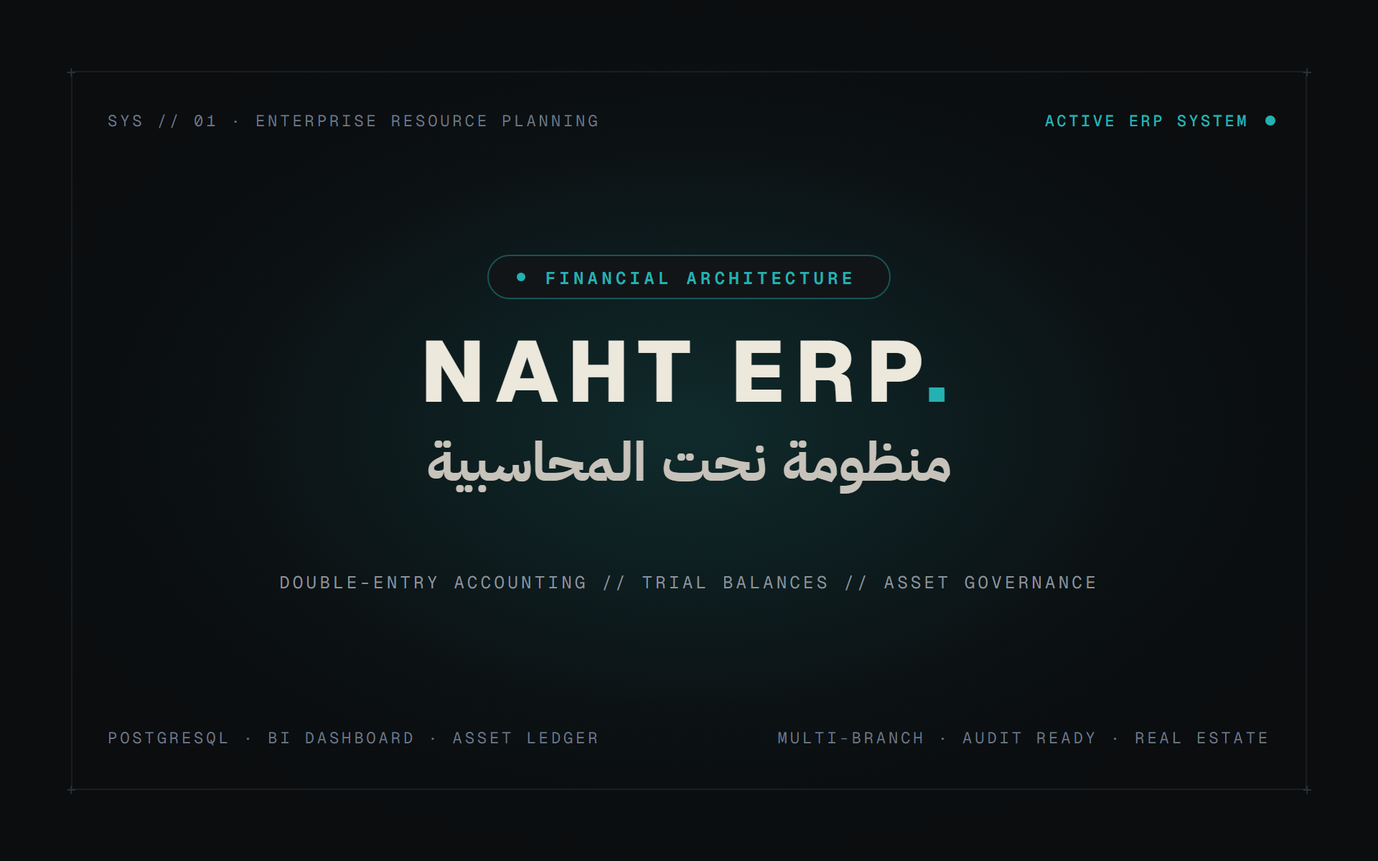
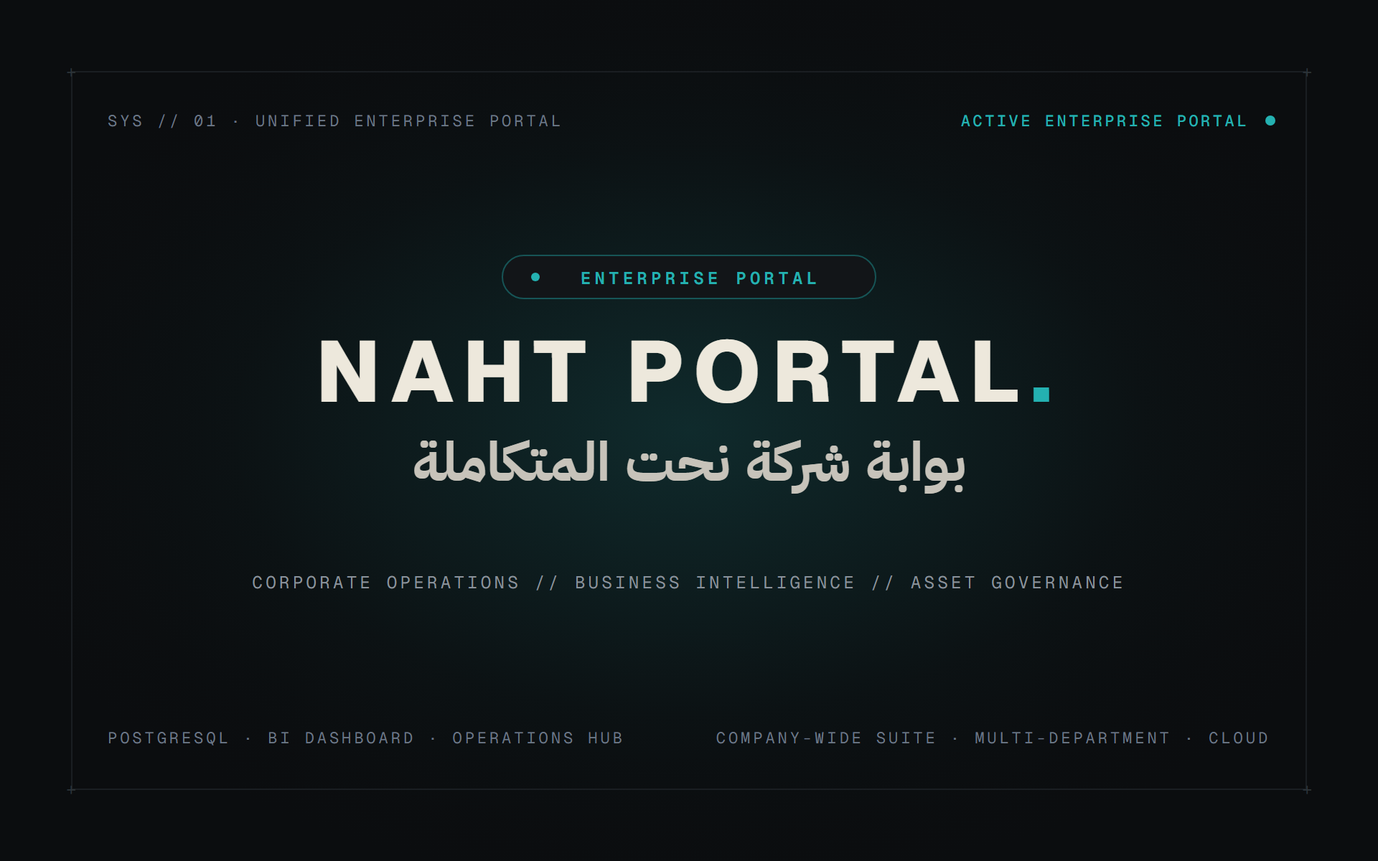
fix(projects): rebrand Naht system from accounting to unified company enterprise portal across cards and case studies

diff --git a/projects/naht-erp.html b/projects/naht-erp.html
@@ -3,17 +3,17 @@
 <head>
     <meta charset="UTF-8">
     <meta name="viewport" content="width=device-width, initial-scale=1.0">
-    <title>منظومة نحت العقارية المتكاملة (ERP) · Rayyan Aldohian</title>
-    <meta name="description" content="دراسة حالة لمنظومة نحت العقارية المتكاملة (Naht Enterprise ERP & Operations Engine) — هندسة العمليات، القيود المالية، وإدارة الأصول العقارية.">
+    <title>بوابة شركة نحت المتكاملة (Enterprise Portal) · Rayyan Aldohian</title>
+    <meta name="description" content="دراسة حالة لبوابة شركة نحت المتكاملة (Naht Enterprise Portal) — البوابة الرقمية المركزية لإدارة كافة عمليات وقطاعات الشركة، ذكاء الأعمال، وحوكمة الأصول والمشاريع.">
     <meta name="author" content="Rayyan Aldohian">
     <meta name="theme-color" content="#0b0d0f">
     <meta name="color-scheme" content="dark">
 
     <!-- Open Graph -->
     <meta property="og:type" content="article">
-    <meta property="og:title" content="منظومة نحت العقارية المتكاملة (ERP) · Rayyan Aldohian">
-    <meta property="og:description" content="منظومة متكاملة لإدارة العمليات التشغيلية، والقيود المالية، والأصول العقارية، والكوادر البشرية.">
-    <meta property="og:image" content="../assets/naht-erp-logo.png">
+    <meta property="og:title" content="بوابة شركة نحت المتكاملة (Enterprise Portal) · Rayyan Aldohian">
+    <meta property="og:description" content="البوابة الرقمية المركزية لإدارة العمليات التشغيلية، ذكاء الأعمال، الأصول العقارية، والكوادر البشرية لكافة قطاعات الشركة.">
+    <meta property="og:image" content="../assets/p11-naht-erp.png">
 
     <!-- Stylesheets & Icons -->
     <link rel="stylesheet" href="../style.css">
@@ -130,20 +130,20 @@
                 <div class="case-study-meta-row">
                     <span class="year">2026</span>
                     <span class="divider" aria-hidden="true"></span>
-                    <span class="tagline" data-i18n="cs_erp_tagline">منظومة تخطيط الموارد وإدارة العمليات المؤسسية</span>
+                    <span class="tagline" data-i18n="cs_erp_tagline">بوابة رقمية موحدة للشركة: العمليات، ذكاء الأعمال، وحوكمة المشاريع</span>
                     <span class="divider" aria-hidden="true"></span>
                     <span class="status-badge">
                         <span class="pulsing-dot"></span>
-                        <span data-i18n="cs_erp_status">نظام مؤسسي نشط</span>
+                        <span data-i18n="cs_erp_status">بوابة مؤسسية نشطة</span>
                     </span>
                 </div>
 
                 <!-- Headline -->
-                <h1 class="case-study-title font-display" data-i18n="cs_erp_title">منظومة نحت العقارية المتكاملة (ERP)</h1>
+                <h1 class="case-study-title font-display" data-i18n="cs_erp_title">بوابة شركة نحت المتكاملة</h1>
 
                 <!-- Lead Paragraph -->
                 <p class="case-study-lead" data-i18n="cs_erp_lead">
-                    منصة رقمية مؤسسية تجمع بين ذكاء الأعمال (BI) والإدارة المالية المتقدمة، وإدارة الكوادر والمشاريع العقارية في بيئة تشغيلية موحدة ومؤمنة بالكامل تدعم التوسع والنمو.
+                    بوابة رقمية مؤسسية موحدة لكافة قطاعات وأقسام الشركة، تجمع بين إدارة العمليات التشغيلية، ذكاء الأعمال (BI)، إدارة المشاريع والكوادر، والربط المالي الشامل في بيئة سحابية مركزية ومؤتمتة بالكامل.
                 </p>
 
                 <!-- Actions & Links (Row 1) -->
@@ -191,7 +191,7 @@
                         <div class="cs-section">
                             <h3 class="cs-section-title" data-i18n="cs_erp_h1">01. سياق التحدي ونقاط الاختناق التشغيلي</h3>
                             <p data-i18n="cs_erp_p1">
-                                مع تسارع أعمال التطوير والبيع على الخارطة في شركة <strong>نحت العقارية</strong> عبر مشاريع حيوية في الرياض (نحت 13، 14، 18، 19، 20، 21، 22، 23)، واجهت الإدارة اختناقات ناتجة عن تشتت الأنظمة: برامج محاسبية منفصلة لا تتواصل مع سجلات البيع، جداول يدوية لحجوزات الوحدات تتسبب في مخاطر التضارب والازدواجية، وغياب الرؤية الموحدة لتدفق السيولة وتكاليف المقاولين. <em>كان الهدف بناء منظومة مركزية واحدة تدير الأصول المالية والتشغيلية من حجز الوحدة حتى الإغلاق المحاسبي النهائي.</em>
+                                مع تسارع أعمال التطوير والبيع على الخارطة في شركة <strong>نحت العقارية</strong> عبر مشاريع حيوية في الرياض (نحت 13، 14، 18، 19، 20، 21، 22، 23)، واجهت الإدارة اختناقات ناتجة عن تشتت الأنظمة: برامج متعددة متفرقة لا تتواصل مع بعضها، جداول يدوية لحجوزات الوحدات وإدارة الكوادر تتسبب في التضارب والازدواجية، وغياب البوابة الموحدة التي تمنح الإدارة التنفيذية رؤية شاملة وفورية لكافة قطاعات الشركة. <em>كان الهدف بناء بوابة رقمية موحدة وشاملة للشركة ككل، تدير الأصول والعمليات التشغيلية، الكوادر، المشاريع، والتقارير المالية في منصة واحدة.</em>
                             </p>
                         </div>
 
@@ -199,7 +199,7 @@
                         <div class="cs-section">
                             <h3 class="cs-section-title" data-i18n="cs_erp_h2">02. المعمارية التقنية والحل الهندسي</h3>
                             <p data-i18n="cs_erp_p2">
-                                تم تصميم المنظومة بنمط المعمارية الأحادية المعيارية <em>Modular Monolith</em> بالاعتماد على <code>Next.js 15</code> و <code>TypeScript</code> مع قاعدة بيانات علائقية <code>PostgreSQL</code> عبر <code>Prisma ORM</code>. طُبقت معايير المحاسبة المزدوجة <em>Double-Entry General Ledger</em> المؤتمتة وموازين المراجعة <em>D4 Trial Balance</em>، مع بناء سجل تدقيق مالي غير قابل للمسح أو التعديل <em>Append-Only Audit Log</em> يوثق كل قيد وتعديل بدقة جنائية تلبي أعلى متطلبات الامتثال المالي.
+                                تم تصميم البوابة المؤسسية بنمط المعمارية الأحادية المعيارية <em>Modular Monolith</em> بالاعتماد على <code>Next.js 15</code> و <code>TypeScript</code> مع قاعدة بيانات علائقية <code>PostgreSQL</code> عبر <code>Prisma ORM</code>. جُمعت كافة وظائف الشركة في بوابة مركزية تضم محرك العمليات المؤسسية، لوحات ذكاء الأعمال (BI)، القيود التشغيلية والمالية المؤتمتة، مع بناء سجل تدقيق غير قابل للمسح أو التعديل <em>Append-Only Audit Log</em> يوثق كل إجراء بدقة متناهية تلبي أعلى متطلبات الحوكمة المؤسسية.
                             </p>
                         </div>
 
@@ -207,24 +207,24 @@
                         <div class="cs-section">
                             <h3 class="cs-section-title" data-i18n="cs_erp_h3">03. استراتيجية التنفيذ والتكامل التشغيلي</h3>
                             <p data-i18n="cs_erp_p3">
-                                قُسمت المنظومة إلى وحدات وظيفية مترابطة: محرك إدارة المخزون العقاري الذي يتيح تتبع نسب الإنجاز، النماذج المعمارية، الأسعار الديناميكية، وإصدار عقود الحجز إلكترونياً، بالتكامل مع بوابة خدمة ذاتية للموارد البشرية لإدارة الإجازات والتكليفات وفق مصفوفة صلاحيات مشددة <em>Role-Based Access Control (RBAC)</em>، وبيئة اختبار معزولة <em>Isolated Sandbox Lab</em> لمعاينة القيود قبل ترحيلها.
+                                قُسمت المنظومة إلى وحدات وظيفية مترابطة: محرك إدارة المخزون العقاري الذي يتيح تتبع نسب الإنجاز، النماذج المعمارية، الأسعار الديناميكية، وإصدار عقود الحجز إلكترونياً، بالتكامل مع بوابة خدمة ذاتية للموارد البشرية لإدارة الإجازات والتكليفات وفق مصفوفة صلاحيات مشددة <em>Role-Based Access Control (RBAC)</em>، وبيئة اختبار معزولة <em>Isolated Sandbox Lab</em> لمعاينة العمليات قبل اعتمادها.
                             </p>
                         </div>
 
                         <!-- Section 4 -->
                         <div class="cs-section">
-                            <h3 class="cs-section-title" data-i18n="cs_erp_h4">04. الأثر المالي والنتائج الرقمية المحققة</h3>
+                            <h3 class="cs-section-title" data-i18n="cs_erp_h4">04. الأثر المؤسسي والنتائج الرقمية المحققة</h3>
                             <p data-i18n="cs_erp_p4">
-                                أحدثت المنظومة تحولاً جذرياً في كفاءة الفريق الإداري والمالي، حيث ألغت تماماً الاعتماد على الجداول المتفرقة، وحولت الاجتماعات الدورية من التخمين إلى اتخاذ قرارات تستند إلى لوحات ذكاء أعمال لحظية <em>BI Telemetry</em> تكشف هوامش الربحية وتدفقات السيولة.
+                                أحدثت البوابة تحولاً جذرياً في كفاءة كافة أقسام وإدارات الشركة، حيث ألغت تماماً الاعتماد على الملفات المتفرقة، وحولت الاجتماعات الدورية من التخمين إلى اتخاذ قرارات تستند إلى لوحات ذكاء أعمال لحظية <em>BI Telemetry</em> تكشف مؤشرات الأداء، التدفقات، وسير العمليات.
                             </p>
                             <div class="cs-metric-grid">
                                 <div class="cs-metric-card">
-                                    <span class="cs-metric-val" data-i18n="cs_erp_m1_val">-65%</span>
-                                    <span class="cs-metric-lbl" data-i18n="cs_erp_m1_lbl">تسريع الإغلاق المالي والقيود المحاسبية</span>
+                                    <span class="cs-metric-val" data-i18n="cs_erp_m1_val">100%</span>
+                                    <span class="cs-metric-lbl" data-i18n="cs_erp_m1_lbl">تكامل قطاعات وعمليات الشركة في بوابة موحدة</span>
                                 </div>
                                 <div class="cs-metric-card">
-                                    <span class="cs-metric-val" data-i18n="cs_erp_m2_val">100%</span>
-                                    <span class="cs-metric-lbl" data-i18n="cs_erp_m2_lbl">جاهزية تدقيق القيود وسجل العمليات</span>
+                                    <span class="cs-metric-val" data-i18n="cs_erp_m2_val">-65%</span>
+                                    <span class="cs-metric-lbl" data-i18n="cs_erp_m2_lbl">تسريع الإجراءات الإدارية والتشغيلية</span>
                                 </div>
                                 <div class="cs-metric-card">
                                     <span class="cs-metric-val" data-i18n="cs_erp_m3_val">0%</span>
@@ -237,7 +237,7 @@
                         <div class="cs-section">
                             <h3 class="cs-section-title" data-i18n="cs_erp_h5">05. آفاق التوسع والدروس المستفادة</h3>
                             <p data-i18n="cs_erp_p5">
-                                أثبتت التجربة أن بناء نواة تقنية مخصصة للاحتياج الفعلي يتفوق بمراحل على الأنظمة الجاهزة باهظة التكلفة والصلبة. تشمل خارطة التوسع دمج نماذج تنبؤية للسيولة النقدية قائمة على الذكاء الاصطناعي، وربط تلقائي مع منصات التمويل العقاري والوسطاء المعتمدين.
+                                أثبتت التجربة أن بناء بوابة رقمية مخصصة للاحتياج المؤسسي الفعلي يتفوق بمراحل على الحلول الجاهزة باهظة التكلفة والصلبة. تشمل خارطة التوسع دمج نماذج تنبؤية مدعومة بالذكاء الاصطناعي، وربط تلقائي مع منصات التمويل العقاري والوسطاء المعتمدين.
                             </p>
                         </div>
                     </div>
@@ -251,7 +251,7 @@
                         <ul class="highlights-list">
                             <li>
                                 <span class="dash"></span>
-                                <span data-i18n="cs_erp_hl1">نظام قيود محاسبية وميزان مراجعة مالي متكامل D4 مع سجل تدقيق مشفر.</span>
+                                <span data-i18n="cs_erp_hl1">بوابة مركزية موحدة لربط كافة إدارات وعمليات الشركة تحت بيئة سحابية واحدة.</span>
                             </li>
                             <li>
                                 <span class="dash"></span>
@@ -267,7 +267,7 @@
                             </li>
                             <li>
                                 <span class="dash"></span>
-                                <span data-i18n="cs_erp_hl5">لوحات ذكاء أعمال (BI) لقياس أداء التسويق وسرعة التحويل ومعدلات العائد.</span>
+                                <span data-i18n="cs_erp_hl5">لوحات ذكاء أعمال (BI) ومؤشرات أداء تنفيذية لحظية لمتخذي القرار.</span>
                             </li>
                         </ul>
 

diff --git a/main.js b/main.js
@@ -39,9 +39,9 @@ const translations = {
         link_all_projects_text: "كافة المشاريع",
         link_discuss_project: "كافة المشاريع",
         
-        p0_title: "منظومة نحت ERP",
-        p0_desc: "نظام تخطيط الموارد، المحاسبة المزدوجة، وإدارة الأصول العقارية",
-        status_erp: "نظام مؤسسي نشط",
+        p0_title: "بوابة شركة نحت المتكاملة",
+        p0_desc: "البوابة المركزية الموحدة لإدارة العمليات المؤسسية، ذكاء الأعمال، وحوكمة قطاعات الشركة",
+        status_erp: "بوابة مؤسسية نشطة",
 
         p1_title: "نظام نحت CRM",
         p1_desc: "محرك ذكاء الأعمال، قنوات الاستقطاب، وأتمتة مسارات المبيعات",
@@ -82,7 +82,7 @@ const translations = {
         heading_projects_archive: "أعمال وأنظمة بنيتها، من الفكرة إلى الأثر.",
         lead_projects_archive: "أنظمة تعتمد عليها فرق العمل يومياً، منصات رقمية وحلول تشغيلية متكاملة، كل مشروع تم إطلاقه وتوثيقه بدقة. استكشف دراسة الحالة لكل مشروع لمعرفة القصة كاملة.",
         
-        p0_story: "منصة رقمية مؤسسية تجمع بين ذكاء الأعمال (BI) والإدارة المالية المتقدمة، وإدارة الكوادر والمشاريع العقارية في بيئة تشغيلية موحدة ومؤتمتة ومبنية بمعايير المحاسبة المزدوجة وسجل تدقيق مالي غير قابل للتعديل.",
+        p0_story: "بوابة رقمية مؤسسية موحدة لكافة قطاعات وأقسام الشركة، تجمع بين إدارة العمليات التشغيلية، ذكاء الأعمال (BI)، إدارة المشاريع والكوادر، والربط المالي الشامل في بيئة سحابية مركزية ومؤتمتة بالكامل.",
         p1_story: "منظومة سحابية متكاملة لإدارة علاقات العملاء في قطاع التطوير والوساطة العقارية، تربط الحملات الإعلانية بمسار الصفقات وتوفر توزيعاً ذكياً للفرص مع ربط فوري بـ WhatsApp Business API وتتبع دقيق لعائد الإنفاق الإعلاني.",
         p_naht_web_story: "البوابة العامة لشركة نحت العقارية، توفر استعراضاً تفاعلياً للمشاريع السكنية الفاخرة بالرياض، مع مخططات معمارية ديناميكية وتزامن فوري للحجوزات مع نظام الـ CRM وسرعة استجابة فائقة.",
         p2_story: "المنصة الرقمية الموحدة لمجموعة T&S القابضة لإعادة هيكلة الحضور المؤسسي وتوحيد 10 قطاعات استثمارية كبرى تحت لغة وهوية بصرية واحدة وبنية سحابية عالمية فائقة السرعة.",
@@ -502,9 +502,9 @@ const translations = {
         link_all_projects_text: "All projects",
         link_discuss_project: "All projects",
         
-        p0_title: "Naht Enterprise ERP",
-        p0_desc: "Double-entry accounting, trial balances, and real estate asset management",
-        status_erp: "Actively maintained",
+        p0_title: "Naht Enterprise Portal",
+        p0_desc: "Unified corporate portal for operations, Business Intelligence & enterprise governance",
+        status_erp: "Active Enterprise Portal",
 
         p1_title: "NAHT Real Estate CRM",
         p1_desc: "Business Intelligence, multi-channel lead routing & ROAS telemetry",
@@ -545,7 +545,7 @@ const translations = {
         heading_projects_archive: "Things I've built, end to end.",
         lead_projects_archive: "Apps real people use, systems work that goes down to the machine code, and enterprise platforms, each one shipped and documented. Open any project for the full story.",
 
-        p0_story: "An enterprise digital platform integrating Business Intelligence, automated double-entry ledger accounting, and real estate asset management with an immutable append-only audit trail.",
+        p0_story: "A centralized enterprise portal serving the entire company, unifying operational workflows, Business Intelligence (BI), project asset management, and cross-departmental governance into an automated cloud ecosystem.",
         p1_story: "Cloud-native CRM built for high-velocity real estate brokerage, tracking leads from ad spend to closed deals with automated smart distribution and WhatsApp Business Cloud API sync.",
         p_naht_web_story: "The flagship public portal for Naht Real Estate, delivering an interactive architectural showcase for luxury off-plan residences in Riyadh with instant webhook lead routing.",
         p2_story: "Flagship corporate platform restructuring the digital presence of T&S Holding, unifying 10 high-growth business sectors under an authoritative design system and global edge CDN.",

diff --git a/projects.html b/projects.html
@@ -164,10 +164,10 @@
                                 <div class="window-dots">
                                     <span></span><span></span><span></span>
                                 </div>
-                                <span class="window-url">naht-re.sa/erp</span>
+                                <span class="window-url">naht-re.sa/portal</span>
                             </div>
                             <div class="window-preview">
-                                <img src="assets/p11-naht-erp.png" alt="منظومة نحت ERP" loading="lazy">
+                                <img src="assets/p11-naht-erp.png" alt="بوابة شركة نحت المتكاملة" loading="lazy">
                             </div>
                         </a>
                     </div>
@@ -183,17 +183,17 @@
                                     <span class="ping-bubble"></span>
                                     <span class="ping-core"></span>
                                 </span>
-                                <span data-i18n="status_erp">نظام مؤسسي نشط</span>
+                                <span data-i18n="status_erp">بوابة مؤسسية نشطة</span>
                             </span>
                         </div>
                         <h2 class="project-row-title font-display">
-                            <a href="projects/naht-erp.html" data-i18n="p0_title">منظومة نحت ERP</a>
+                            <a href="projects/naht-erp.html" data-i18n="p0_title">بوابة شركة نحت المتكاملة</a>
                         </h2>
                         <p class="project-row-tagline font-mono" data-i18n="p0_desc">
-                            نظام تخطيط الموارد، المحاسبة المزدوجة، وإدارة الأصول العقارية
+                            البوابة المركزية الموحدة لإدارة العمليات المؤسسية، ذكاء الأعمال، وحوكمة قطاعات الشركة
                         </p>
                         <p class="project-row-desc" data-i18n="p0_story">
-                            منصة رقمية مؤسسية تجمع بين ذكاء الأعمال (BI) والإدارة المالية المتقدمة، وإدارة الكوادر والمشاريع العقارية في بيئة تشغيلية موحدة ومؤتمتة ومبنية بمعايير المحاسبة المزدوجة وسجل تدقيق مالي غير قابل للتعديل.
+                            بوابة رقمية مؤسسية موحدة لكافة قطاعات وأقسام الشركة، تجمع بين إدارة العمليات التشغيلية، ذكاء الأعمال (BI)، إدارة المشاريع والكوادر، والربط المالي الشامل في بيئة سحابية مركزية ومؤتمتة بالكامل.
                         </p>
                         <ul class="project-tech-list">
                         <li>Next.js 15</li>
@@ -202,16 +202,16 @@
                         <li>PostgreSQL</li>
                         <li>Tailwind CSS</li>
                         <li>RBAC Architecture</li>
-                        <li>Double-Entry GL</li>
+                        <li>Enterprise Portal Hub</li>
                         </ul>
                         <div class="project-metrics-row">
                     <div class="project-metric-item">
-                        <span class="metric-num font-display">10,000+</span>
-                        <span class="metric-label font-mono" data-ar="قيود محاسبية" data-en="ledger entries">قيود محاسبية</span>
+                        <span class="metric-num font-display">100%</span>
+                        <span class="metric-label font-mono" data-ar="تغطية العمليات المؤسسية" data-en="operational coverage">تغطية العمليات المؤسسية</span>
                     </div>
                     <div class="project-metric-item">
-                        <span class="metric-num font-display">100%</span>
-                        <span class="metric-label font-mono" data-ar="توازن تدقيق D4" data-en="audit balance">توازن تدقيق D4</span>
+                        <span class="metric-num font-display">All-in-One</span>
+                        <span class="metric-label font-mono" data-ar="بوابة مركزية موحدة" data-en="unified corporate hub">بوابة مركزية موحدة</span>
                     </div>
                         </div>
                         <div class="project-links-row">

diff --git a/index.html b/index.html
@@ -463,21 +463,21 @@
                                 <div class="window-dots">
                                     <span></span><span></span><span></span>
                                 </div>
-                                <span class="window-url">naht-re.sa/erp</span>
+                                <span class="window-url">naht-re.sa/portal</span>
                             </div>
                             <div class="window-preview">
-                                <img src="assets/p11-naht-erp.png" alt="منظومة نحت ERP" loading="lazy">
+                                <img src="assets/p11-naht-erp.png" alt="بوابة شركة نحت المتكاملة" loading="lazy">
                             </div>
                         </div>
                         <div class="card-content">
                             <div class="card-title-row">
-                                <h3 class="card-title" data-i18n="p0_title">منظومة نحت ERP</h3>
+                                <h3 class="card-title" data-i18n="p0_title">بوابة شركة نحت المتكاملة</h3>
                                 <span class="card-year">2026</span>
                             </div>
-                            <p class="card-tagline" data-i18n="p0_desc">نظام تخطيط الموارد، المحاسبة المزدوجة، وإدارة الأصول العقارية</p>
+                            <p class="card-tagline" data-i18n="p0_desc">البوابة المركزية الموحدة لإدارة العمليات المؤسسية، ذكاء الأعمال، وحوكمة قطاعات الشركة</p>
                             <div class="card-status">
                                 <span class="mini-ping"></span>
-                                <span data-i18n="status_erp">نظام مؤسسي نشط</span>
+                                <span data-i18n="status_erp">بوابة مؤسسية نشطة</span>
                             </div>
                         </div>
                     </a>
